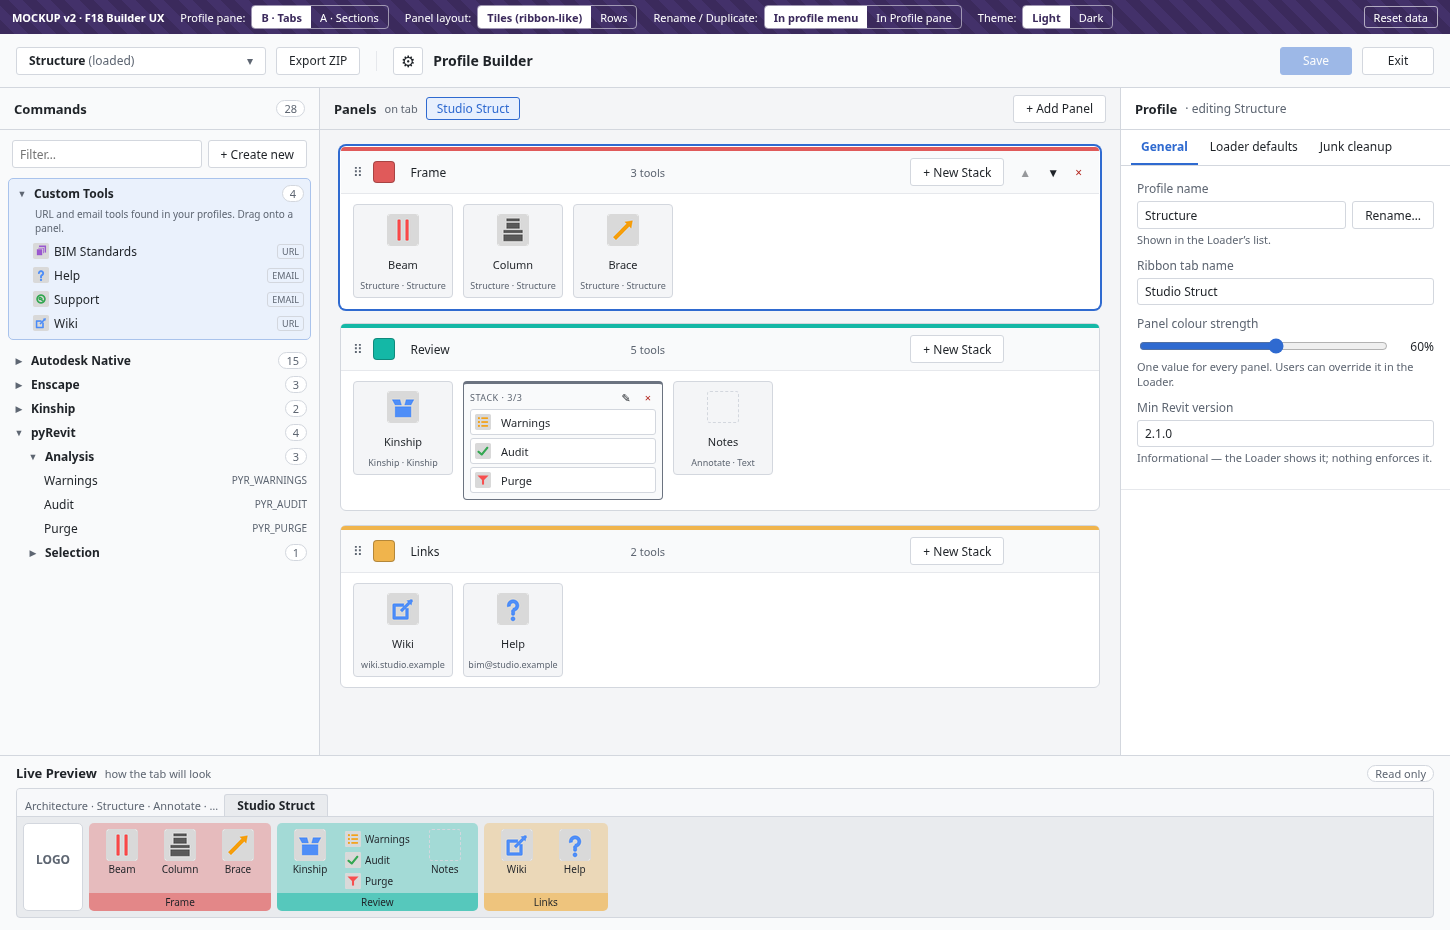
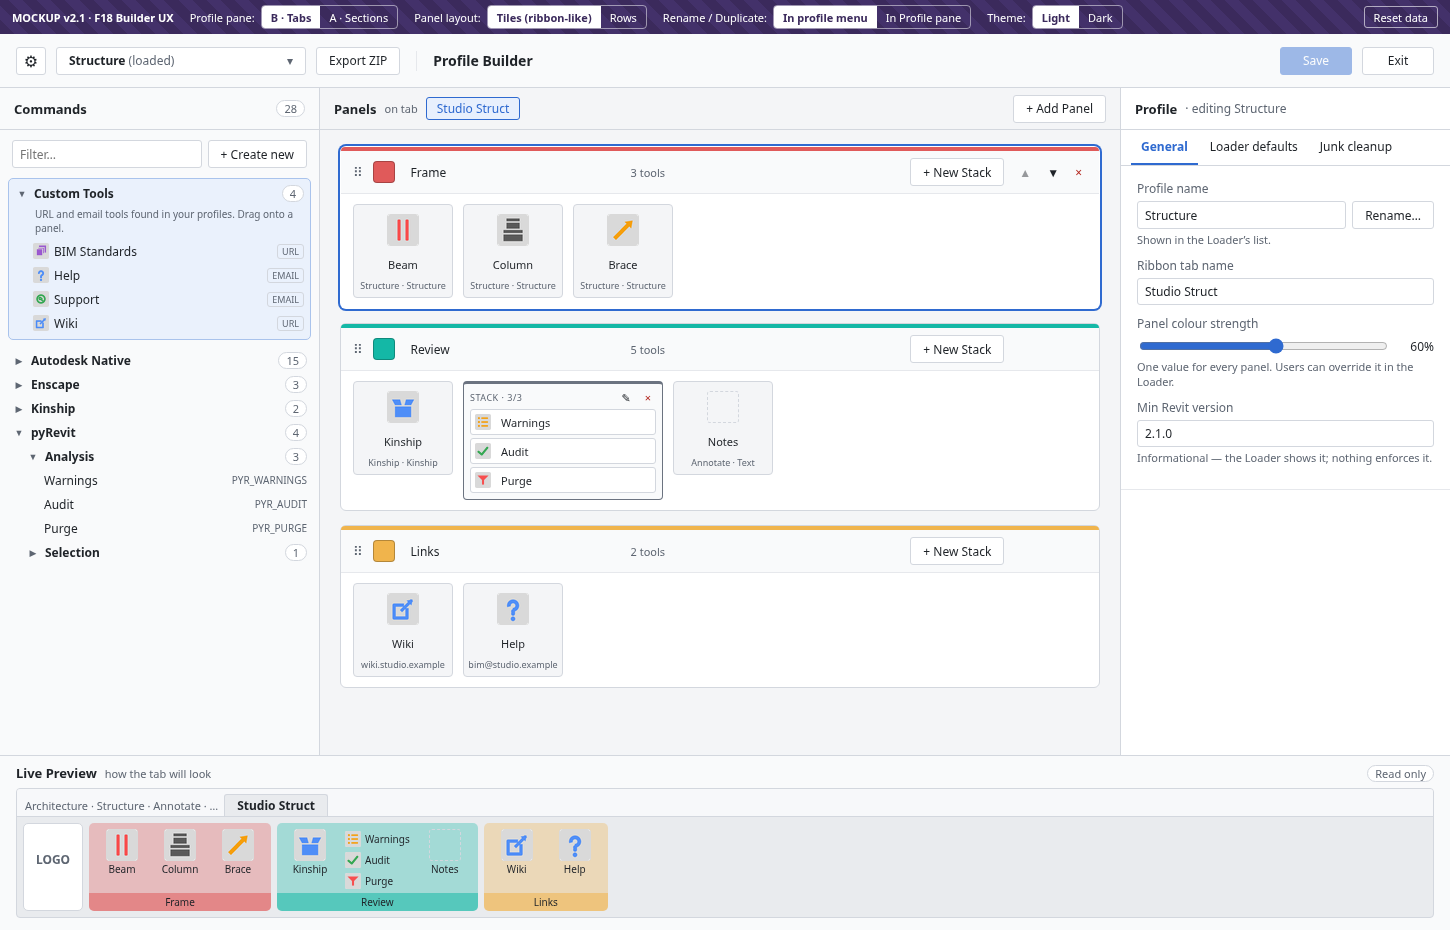
docs(f18): mockup v2.1 — settings gear far left, before the profile dropdown

Changed region(s): [[0.0621, 0.0, 0.7759, 0.0312], [0.1862, 0.0624, 0.2793, 0.0935], [0.031, 0.0624, 0.1241, 0.0935]]

diff --git a/shared/mockups/builder-ux/builder.html b/shared/mockups/builder-ux/builder.html
@@ -513,7 +513,7 @@ function placeItem(item, t) {
 // ───────────────────────── render: mockup strip ─────────────────────────
 function renderMock() {
   const m = $('#mock'); m.innerHTML = '';
-  m.append(h('b', {}, 'MOCKUP v2 · F18 Builder UX'));
+  m.append(h('b', {}, 'MOCKUP v2.1 · F18 Builder UX'));
   for (const k in OPTS) {
     const [title, labels] = OPT_LABELS[k];
     m.append(h('span', { class:'grp' }, title + ':', h('span', { class:'seg' },
@@ -528,11 +528,11 @@ function renderHeader() {
   const el = $('#header'); el.innerHTML = '';
   const p = W();
   el.append(
+    h('button', { class:'gear', 'data-opens':'1', title:'Settings for this machine (not saved in profiles)', 'aria-label':'Settings', onclick:e => gearMenu(e.currentTarget) }, '⚙'),
     h('button', { class:'profile-btn', 'data-opens':'1', title:'Switch profile', onclick:e => profileMenu(e.currentTarget) },
       h('span', {}, h('b', {}, p.name || '(unnamed)'), S.saved[S.cur]?.loaded ? h('span', { class:'muted' }, '  (loaded)') : null), h('span', { class:'muted' }, '▾')),
     h('button', { title:'Export this profile as a .zip', onclick:() => toast(`Exported to Desktop\\${p.name}.zip`) }, 'Export ZIP'),
     h('div', { class:'vsep' }),
-    h('button', { class:'gear', 'data-opens':'1', title:'Settings for this machine (not saved in profiles)', 'aria-label':'Settings', onclick:e => gearMenu(e.currentTarget) }, '⚙'),
     h('span', { class:'section-title', style:'font-size:14px' }, 'Profile Builder'),
     h('div', { class:'spacer' }),
     S.dirty ? h('span', { class:'dirty' }, 'Unsaved changes') : null,

diff --git a/shared/mockups/builder-ux/README.md b/shared/mockups/builder-ux/README.md
@@ -5,7 +5,7 @@ The purple strip at the top is the mockup's own control bar, not part of the des
 
 ## v2 (2026-10-30)
 
-The FnB's picks are now the defaults: **B · Tabs**, **Tiles**, **In profile menu** (decision #22). Settings is an icon-only ⚙ left of the title. The other options stay in the strip for reference.
+The FnB's picks are now the defaults: **B · Tabs**, **Tiles**, **In profile menu** (decision #22). Settings is an icon-only ⚙ at the far left, before the profile dropdown (v2.1, decision #23). The other options stay in the strip for reference.
 
 ## Options (purple strip; the choice is kept in the URL, so quote it in a redline)
 
@@ -24,7 +24,7 @@ The FnB's picks are now the defaults: **B · Tabs**, **Tiles**, **In profile men
 - **Custom Tools:** **+ Create new** makes a URL or email tool on the selected panel. Hover a Custom Tools entry for ✎ (edit everywhere it is used) and × (remove from every profile). The list is built from all three sample profiles: Wiki and Help appear in two.
 - **Tools on panels:** click a name to rename it for this panel only. Click the icon to change it. × removes it from this panel only. ✎ shows on URL and email tools.
 - **Panels:** the colour swatch, the name, **+ New Stack**, and (on hover) ▲ ▼ ×. Drag the ⠿ handle to reorder.
-- **Header:** switch profiles from the dropdown (with unsaved changes it asks first). Export ZIP sits beside it. **⚙** (left of the title) holds Branding (this machine).
+- **Header:** switch profiles from the dropdown (with unsaved changes it asks first). Export ZIP sits beside it. **⚙** (far left) holds Branding (this machine).
 
 ## Redlines
 
